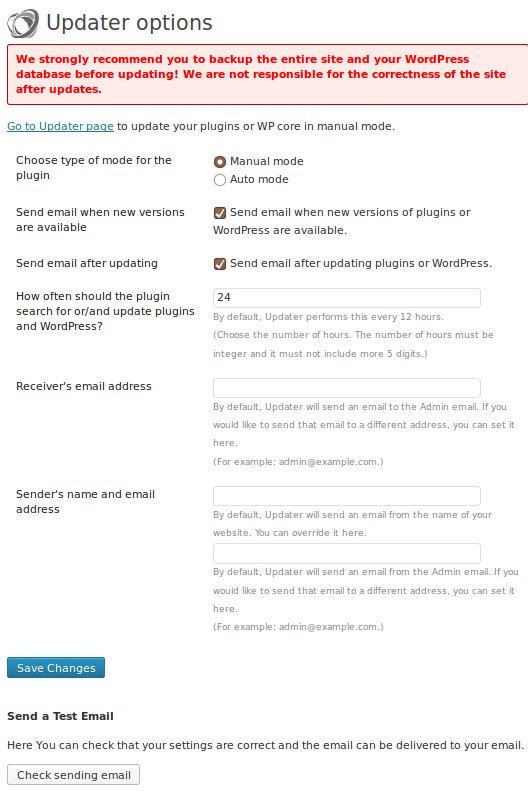
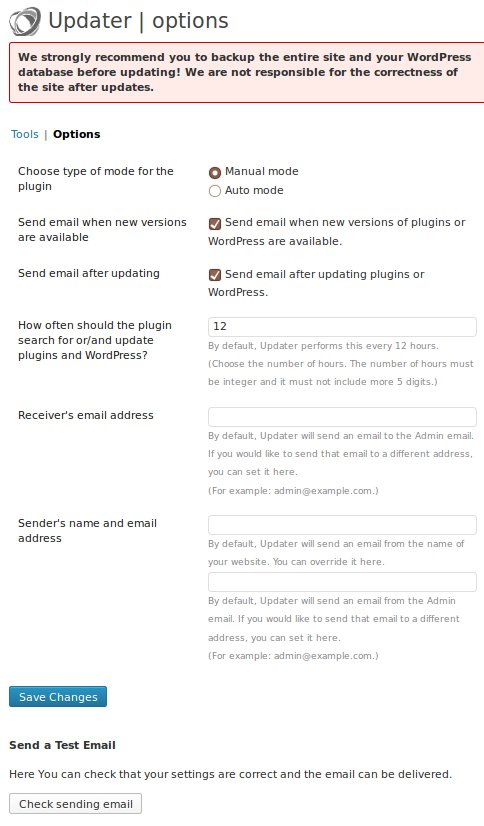
V1.05 - The code refactoring was performed. Changed location of the pages.
git-svn-id: https://plugins.svn.wordpress.org/updater/trunk@673080 b8457f37-d9ea-0310-8a92-e5e31aec5664

diff --git a/updater.php b/updater.php
@@ -4,7 +4,7 @@ Plugin Name: Updater
 Plugin URI:  http://bestwebsoft.com/plugin/
 Description: This plugin allows you to update plugins and WP core in auto or manual mode.
 Author: BestWebSoft
-Version: 1.04
+Version: 1.05
 Author URI: http://bestwebsoft.com/
 License: GPLv2 or later
 */
@@ -105,9 +105,9 @@ if( ! function_exists( 'bws_add_menu_render' ) ) {
 // Create pages for the plugin
 if( ! function_exists( 'pdtr_add_admin_menu' ) ) {
 	function pdtr_add_admin_menu() {
-		add_menu_page( 'BWS Plugins', 'BWS Plugins', 'manage_options', 'bws_plugins', 'bws_add_menu_render', WP_CONTENT_URL . "/plugins/updater/images/px.png", 1001 ); 
-		add_submenu_page( 'bws_plugins', __( 'Updater options', 'updater' ), __( 'Updater options', 'updater' ), 'manage_options', "updater-options", 'pdtr_settings_page' );
-		add_submenu_page( 'tools.php', __( 'Updater','updater' ), __( 'Updater' , 'updater' ), 'manage_options', 'updater', 'pdtr_own_page' );
+		add_menu_page( 'BWS Plugins', 'BWS Plugins', 'manage_options', 'bws_plugins', 'bws_add_menu_render', WP_CONTENT_URL . "/plugins/updater/images/px.png", 1001 );		
+		add_submenu_page( 'bws_plugins', __( 'Updater','updater' ), __( 'Updater' , 'updater' ), 'manage_options', 'updater', 'pdtr_own_page' );
+		add_submenu_page( 'updater', __( 'Updater', 'updater' ), __( 'Updater', 'updater' ), 'manage_options', 'updater-options', 'pdtr_settings_page' );
 
 		//call register settings function
 		add_action( 'admin_init', 'pdtr_register_settings' );
@@ -179,10 +179,10 @@ if( ! function_exists( 'pdtr_schedules' ) ) {
 	function pdtr_schedules( $schedules ) {
 	    $pdtr_options = get_option( 'pdtr_options' );
 
-	    if ( '' != $pdtr_options['pdtr_time'] )
-	   		$schedules_hours = $pdtr_options['pdtr_time'];
-	    else 
-	    	$schedules_hours = 12;
+		if ( '' != $pdtr_options['pdtr_time'] )
+			$schedules_hours = $pdtr_options['pdtr_time'];
+		else 
+			$schedules_hours = 12;
 
 	    $schedules['schedules_hours'] = array( 'interval' => $schedules_hours*60*60, 'display' => 'Every ' . $schedules_hours . ' hours' );
 	    return $schedules;
@@ -228,11 +228,11 @@ if ( ! function_exists ( 'pdtr_settings_page' ) ) {
 					$email = get_option( 'admin_email' );
 
 				if ( $result_mail != true )
-					$message = __( "Sorry, your e-mail could not be delivered to ", 'updater' ) . $email; 
+					$message = __( "Sorry, your e-mail could not be delivered to", 'updater' ) . ' ' . $email; 
 				else
-					$message = __( "The test e-mail was delivered to ", 'updater' ) . $email;
+					$message = __( "The test e-mail was delivered to", 'updater' ) . ' ' . $email;
 			} else {
-				$message = __( "You don't check to send emails! Check it, save settings and try again.", 'updater' ) . $email;
+				$message = __( "You don't check to send emails! Check it, save settings and try again", 'updater' );
 			}
 		}
 
@@ -248,7 +248,7 @@ if ( ! function_exists ( 'pdtr_settings_page' ) ) {
 				if ( ( preg_match( "/^[0-9]{1,5}+$/", $_REQUEST['pdtr_time'] ) && "0" != $_REQUEST["pdtr_time"] ) || "" == $_REQUEST["pdtr_time"] )
 					$pdtr_options["pdtr_time"] = $_REQUEST["pdtr_time"];
 				else
-					$options_error = __( "Please input correct time for searching update or/and updating. The number of hours must be integer and it must not include more 5 digits. Settings are not saved.", 'updater' );
+					$options_error = __( "Please input correct time for searching update or/and updating. The number of hours must be integer and it must not include more 5 digits. Settings are not saved", 'updater' );
 			}
 
 			// if user enter receiver's email check if it correct. Save email if it pass the test.
@@ -256,7 +256,7 @@ if ( ! function_exists ( 'pdtr_settings_page' ) ) {
 				if ( ( preg_match( "/^((?:[a-z0-9']+(?:[a-z0-9\-_\.']+)?@[a-z0-9]+(?:[a-z0-9\-\.]+)?\.[a-z]{2,5})[, ]*)+$/i", trim( $_REQUEST["pdtr_to_email"] ) ) ) || "" == $_REQUEST["pdtr_to_email"] ) 
 					$pdtr_options["pdtr_to_email"] = $_REQUEST["pdtr_to_email"];
 				else
-					$options_error = __( "Please input correct receiver's email. Settings are not saved.", 'updater' );
+					$options_error = __( "Please input correct receiver's email. Settings are not saved", 'updater' );
 			}
 
 			$pdtr_options["pdtr_from_name"] =  htmlspecialchars( stripcslashes( $_REQUEST["pdtr_from_name"] ) );
@@ -266,14 +266,14 @@ if ( ! function_exists ( 'pdtr_settings_page' ) ) {
 				if ( ( preg_match( "/^((?:[a-z0-9']+(?:[a-z0-9\-_\.']+)?@[a-z0-9]+(?:[a-z0-9\-\.]+)?\.[a-z]{2,5})[, ]*)+$/i", trim( $_REQUEST["pdtr_from_email"] ) ) ) || "" == $_REQUEST["pdtr_from_email"] ) 
 					$pdtr_options["pdtr_from_email"] = $_REQUEST["pdtr_from_email"];
 				else
-					$options_error = __( "Please input correct sender's email. Settings are not saved.", 'updater' );
+					$options_error = __( "Please input correct sender's email. Settings are not saved", 'updater' );
 			}  	
 
 			// Update options in the database
 			update_option( 'pdtr_options', $pdtr_options, '', 'yes' );
 
 			if ( "" == $options_error )
-				$message = __( "All settings were saved.", 'updater' );
+				$message = __( "All settings were saved", 'updater' );
 
 		    // Add or delete hook of auto/handle mode
 			if ( ( '0' != $pdtr_options["pdtr_mode"] ) || ( '0' != $pdtr_options["pdtr_send_mail_get_update"] ) ) {
@@ -288,7 +288,7 @@ if ( ! function_exists ( 'pdtr_settings_page' ) ) {
 				} else {
 					wp_clear_scheduled_hook( 'pdtr_auto_hook' );
 					
-					if ( '' != $pdtr_options['pdtr_time'] )
+			   		if ( '' != $pdtr_options['pdtr_time'] )
 				   		$time = time()+$pdtr_options['pdtr_time']*60*60;
 				    else 
 				    	$time = time()+12*60*60;
@@ -302,11 +302,15 @@ if ( ! function_exists ( 'pdtr_settings_page' ) ) {
 		} // Display form on the setting page ?>
 		<div class="wrap">
 			<div class="icon32 icon32-bws" id="icon-options-general"></div>
-			<h2><?php _e('Updater options', 'updater' ); ?></h2>
+			<h2><?php _e('Updater | options', 'updater' ); ?></h2>
 			<div class="error"><p><strong><?php _e( 'We strongly recommend you to backup the entire site and your WordPress database before updating! We are not responsible for the correctness of the site after updates.', 'updater' ); ?></strong></p></div>
 			<div class="updated fade" <?php if ( !( isset( $_REQUEST["pdtr_form_submit"] ) || isset( $_REQUEST["pdtr_form_check_mail"] ) ) || "" != $options_error || "" == $message ) echo "style=\"display:none\""; ?>><p><strong><?php echo $message; ?></strong></p></div>
 			<div class="error" <?php if ( "" == $options_error ) echo "style=\"display:none\""; ?>><p><strong><?php echo $options_error; ?></strong></p></div>
-			<p><a target="_parent" title="<?php _e( 'Go to Updater page', 'updater' ); ?>" href="admin.php?page=updater"><?php _e( 'Go to Updater page', 'updater' ); ?></a><?php _e( ' to update your plugins or WP core in manual mode.', 'updater' ); ?></p>
+			<ul class="subsubsub">
+				<li><a href="admin.php?page=updater"><?php _e( 'Tools', 'updater' ); ?></a></li> |
+				<li><a class="current" href="admin.php?page=updater-options"><?php _e( 'Options', 'updater' ); ?></a></li>
+			</ul>
+			<div class="clear"></div>
 			<form method="post" action="admin.php?page=updater-options">
 			  	<table class="pdtr_settings form-table">
 					<tbody>
@@ -435,7 +439,7 @@ if ( ! function_exists ( 'pdtr_own_page' ) ) {
 			} else {
 				$plugins = "";
 			} ?>
-			<p><a target="_parent" title="<?php _e( 'Go to Updater page', 'updater' ); ?>" href="admin.php?page=updater"><?php _e( 'Return to Updater page', 'updater' ); ?></a></p>
+			<p><a target="_parent" title="<?php _e( 'Go to the Updater page', 'updater' ); ?>" href="admin.php?page=updater"><?php _e( 'Return to the Updater page', 'updater' ); ?></a></p>
 			<?php // send mail if it's need
 			if ( 1 == $pdtr_options["pdtr_send_mail_after_update"] ) {
 				$result_mail = pdtr_notification_after_update( $plugins, $core );
@@ -446,9 +450,9 @@ if ( ! function_exists ( 'pdtr_own_page' ) ) {
 					$email = get_option( 'admin_email' );
 
 				if ( $result_mail != true ) { ?>
-					<p><?php echo __( "Sorry, your e-mail could not be delivered to ", 'updater' ) . $email; ?></p>
+					<p><?php echo __( "Sorry, your e-mail could not be delivered to", 'updater' ) . ' ' . $email; ?></p>
 				<?php } else { ?>
-					<p><?php echo __( "The e-mail with results of updating was delivered to ", 'updater' ) . $email; ?></p>
+					<p><?php echo __( "The e-mail with results of updating was delivered to", 'updater' ) . ' ' . $email; ?></p>
 				<?php }
 			}
 			if ( '3.2' <= $wp_version )
@@ -458,8 +462,13 @@ if ( ! function_exists ( 'pdtr_own_page' ) ) {
 		} ?>
 		<div class="wrap">
 			<div class="icon32 icon32-bws" id="icon-options-general"></div>
-			<h2><?php _e( 'Updater', 'updater' ); ?></h2>
-			<div class="error"><p><strong><?php _e( 'We strongly recommend you to backup the entire site and your WordPress database before updating! We are not responsible for the correctness of the site after updates.', 'updater' ); ?></strong></p></div>
+			<h2><?php _e( 'Updater | tools', 'updater' ); ?></h2>
+			<div class="error"><p><strong><?php _e( 'We strongly recommend you to backup the entire site and your WordPress database before updating! We are not responsible for the correctness of the site after updates', 'updater' ); ?></strong></p></div>
+			<ul class="subsubsub">
+				<li><a class="current" href="admin.php?page=updater"><?php _e( 'Tools', 'updater' ); ?></a></li> |
+				<li><a href="admin.php?page=updater-options"><?php _e( 'Options', 'updater' ); ?></a></li>
+			</ul>
+			<div class="clear"></div>
 			<form method="post" action="admin.php?page=updater" enctype="multipart/form-data">
 				<table class="wp-list-table widefat pdtr" cellspacing="0">
 					<thead>
@@ -478,12 +487,12 @@ if ( ! function_exists ( 'pdtr_own_page' ) ) {
 								$version = $pdtr_core_plugin_list["core"]["current"];
 								if ( isset( $pdtr_core_plugin_list["core"]["new"] ) ) {
 									if ( $version != $pdtr_core_plugin_list["core"]["new"] ) {	
-										$message_update = __( 'Update to ', 'updater' ) . $pdtr_core_plugin_list["core"]["new"];
+										$message_update = __( 'Update to', 'updater' ) . ' ' . $pdtr_core_plugin_list["core"]["new"];
 									}
 								} ?>
 								<td class="manage-column check-column" <?php if( "" != $message_update ) echo "style=\"background:#e89b92\""; ?> >
 									<div <?php if ( "" != $message_update ) echo "class=\"update-message\""; ?>>
-										<div class="pdtr_left"><?php _e( 'Version ', 'updater' ); echo $version; ?></div> 
+										<div class="pdtr_left"><?php echo __( 'Version', 'updater' ) . ' ' . $version; ?></div> 
 										<?php if ( "" != $message_update ) { ?>
 											<div class="pdtr_right">
 												<input type='checkbox' name='checked_core' value='1'/>  
@@ -495,7 +504,7 @@ if ( ! function_exists ( 'pdtr_own_page' ) ) {
 						</tr>			
 						<?php if ( empty( $pdtr_core_plugin_list["plg_list"] ) ) { ?>
 							<tr>
-								<th><?php _e( 'No plugins found.', 'updater' ); ?></th>
+								<th><?php _e( 'No plugins found', 'updater' ); ?></th>
 							</tr>
 						<?php } else {
 							foreach ( $pdtr_core_plugin_list["plg_list"] as $plg_key => $value ) { ?>
@@ -507,14 +516,14 @@ if ( ! function_exists ( 'pdtr_own_page' ) ) {
 										foreach ( $pdtr_core_plugin_list["plg_need_update"] as $file => $plugin_up ) {
 											if ( $plg_key == $file ) {
 												if ( $version != $plugin_up["new_version"] ) {	
-													$message_update = __( 'Update to ', 'updater' ) . $plugin_up["new_version"];
+													$message_update = __( 'Update to', 'updater' ) . ' ' . $plugin_up["new_version"];
 												}
 											}
 										}	
 									} ?>
 									<td class="manage-column check-column" <?php if( "" != $message_update ) echo "style=\"background:#e89b92\""; ?> >								
 										<div <?php if ( "" != $message_update ) echo "class=\"update-message\""; ?>>
-											<div class="pdtr_left"><?php echo __( 'Version ', 'updater' ) . " " . $version; ?></div> 										
+											<div class="pdtr_left"><?php echo __( 'Version', 'updater' ) . " " . $version; ?></div> 										
 											<?php if ( "" != $message_update ) { ?>
 												<div class="pdtr_right">
 													<input type='checkbox' name='checked_plugin[]' value='<?php echo $plg_key; ?>'/> 
@@ -618,7 +627,7 @@ if ( ! function_exists ( 'pdtr_notification_after_update' ) ) {
 		// Get information about WP core and installed plugins from the website
 		$pdtr_core_plugin_list = pdtr_processing_site();		
 
-		$subject = esc_html__( 'Updating on ', 'updater' ) . esc_attr( get_bloginfo( 'name', 'display' ) );
+		$subject = esc_html__( 'Updating on', 'updater' ) .  ' ' . esc_attr( get_bloginfo( 'name', 'display' ) );
 		
 		$message = '<html><head><meta http-equiv="Content-Type" content="text/html; charset=utf-8"></head>
 					<body>
@@ -681,12 +690,12 @@ if ( ! function_exists ( 'pdtr_notification_exist_update' ) ) {
 		// Get information about WP core and installed plugins from the website
 		$pdtr_core_plugin_list = pdtr_processing_site();		
 
-		$subject = esc_html__( 'Updating on ', 'updater' ) . esc_attr( get_bloginfo( 'name', 'display' ) );
+		$subject = esc_html__( 'Checking for update on', 'updater' ) . ' ' . esc_attr( get_bloginfo( 'name', 'display' ) );
 		
 		$message = '<html><head><meta http-equiv="Content-Type" content="text/html; charset=utf-8"></head>
 					<body>
 					<h3>' . __( 'Hello!', 'updater' ) . '</h3>' . 
-					esc_html__( 'The Updater plugin had been run on your web-site', 'updater' ) . ' ' . '<a href=' . home_url() . '>' . esc_attr( get_bloginfo( 'name', 'display' ) ) . '</a>';
+					esc_html__( 'The Updater plugin had been run on your web-site', 'updater' ) . ' <a href=' . home_url() . '>' . esc_attr( get_bloginfo( 'name', 'display' ) ) . '</a>';
 		
 		if ( ( "" != $plugins_list ) || ( false != $core ) )
 			$message .= ' ' . __( 'and found the files need to be updated:', 'updater' ) . '<br/><br/>' ;
@@ -694,18 +703,18 @@ if ( ! function_exists ( 'pdtr_notification_exist_update' ) ) {
 			$message .= '.' . '<br/><br/>' ;
 
 		if ( "" != $plugins_list ) {
-			$message .= '<strong> - ' . __( 'These plugins can be updated:', 'updater' ) . '</strong>' . '<ul>';
+			$message .= '<strong> - ' . __( 'These plugins can be updated:', 'updater' ) . '</strong><ul>';
 			foreach ( $plugins_list as $key => $value ) {
 				$name = explode( "/", $value );
 				$message .= '<li>' . $name[0] . ' - ' . __( 'to version', 'updater' ) . ' ' . $pdtr_core_plugin_list["plg_need_update"][ $value ]["new_version"] .
-						 ' ('. __( 'current version is', 'updater' ) . ' ' . $pdtr_core_plugin_list["plg_list"][ $value ]["Version"] . ');' . '</li>';
+						 ' ('. __( 'current version is', 'updater' ) . ' ' . $pdtr_core_plugin_list["plg_list"][ $value ]["Version"] . ');</li>';
 			}
 			$message .= '</ul>';
 		}
 		
 		if ( true === $core ) {
 			$message .= '<strong> - ' . __( 'WordPress Core can be updated to version', 'updater' ) . ' ' . $pdtr_core_plugin_list["core"]["new"] .
-					 ' ('. __( 'current version is', 'updater' ) . ' ' . $pdtr_core_plugin_list["core"]["current"]. ').' . '</strong><br/>';
+					 ' ('. __( 'current version is', 'updater' ) . ' ' . $pdtr_core_plugin_list["core"]["current"]. ').</strong><br/>';
 		}
 
 		if ( false === $test ) {
@@ -813,11 +822,11 @@ if ( ! function_exists ( 'pdtr_auto_function' ) ) {
 		}
 
 		wp_clear_scheduled_hook( 'pdtr_auto_hook' );
-
+		
 		if ( '' != $pdtr_options['pdtr_time'] )
-	   		$time = time()+$pdtr_options['pdtr_time']*60*60;
+			$time = time()+$pdtr_options['pdtr_time']*60*60;
 	    else 
-	    	$time = time()+12*60*60;
+			$time = time()+12*60*60;
 
 		wp_schedule_event( $time, 'schedules_hours', 'pdtr_auto_hook' );		
 	}
